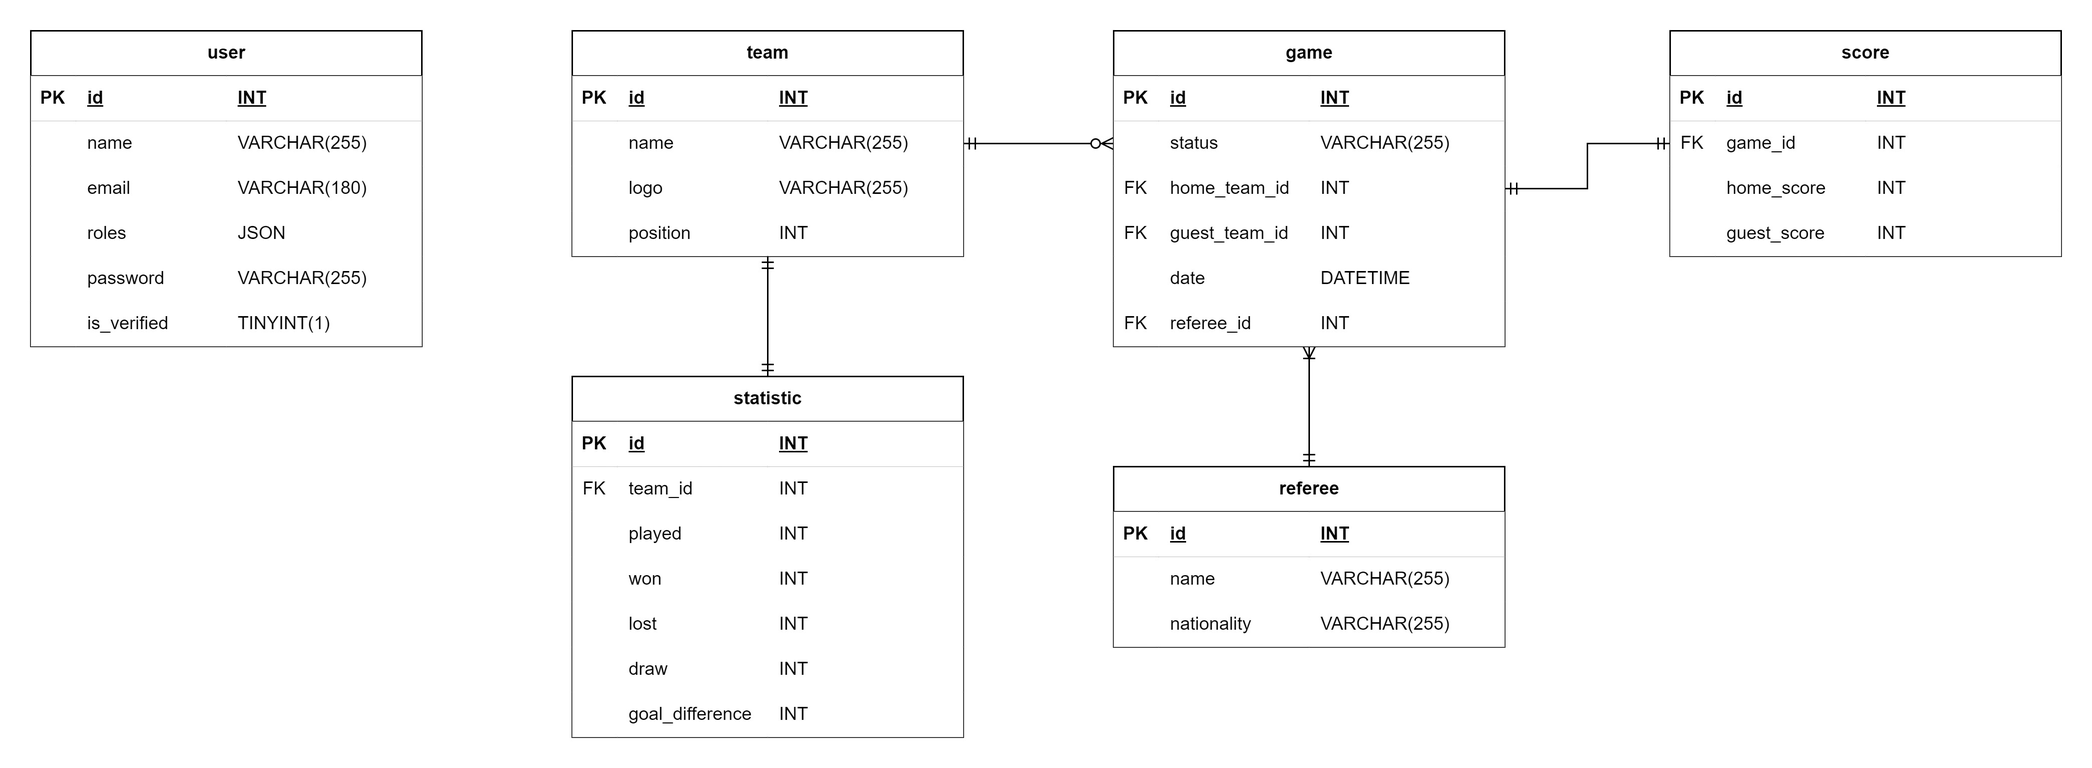
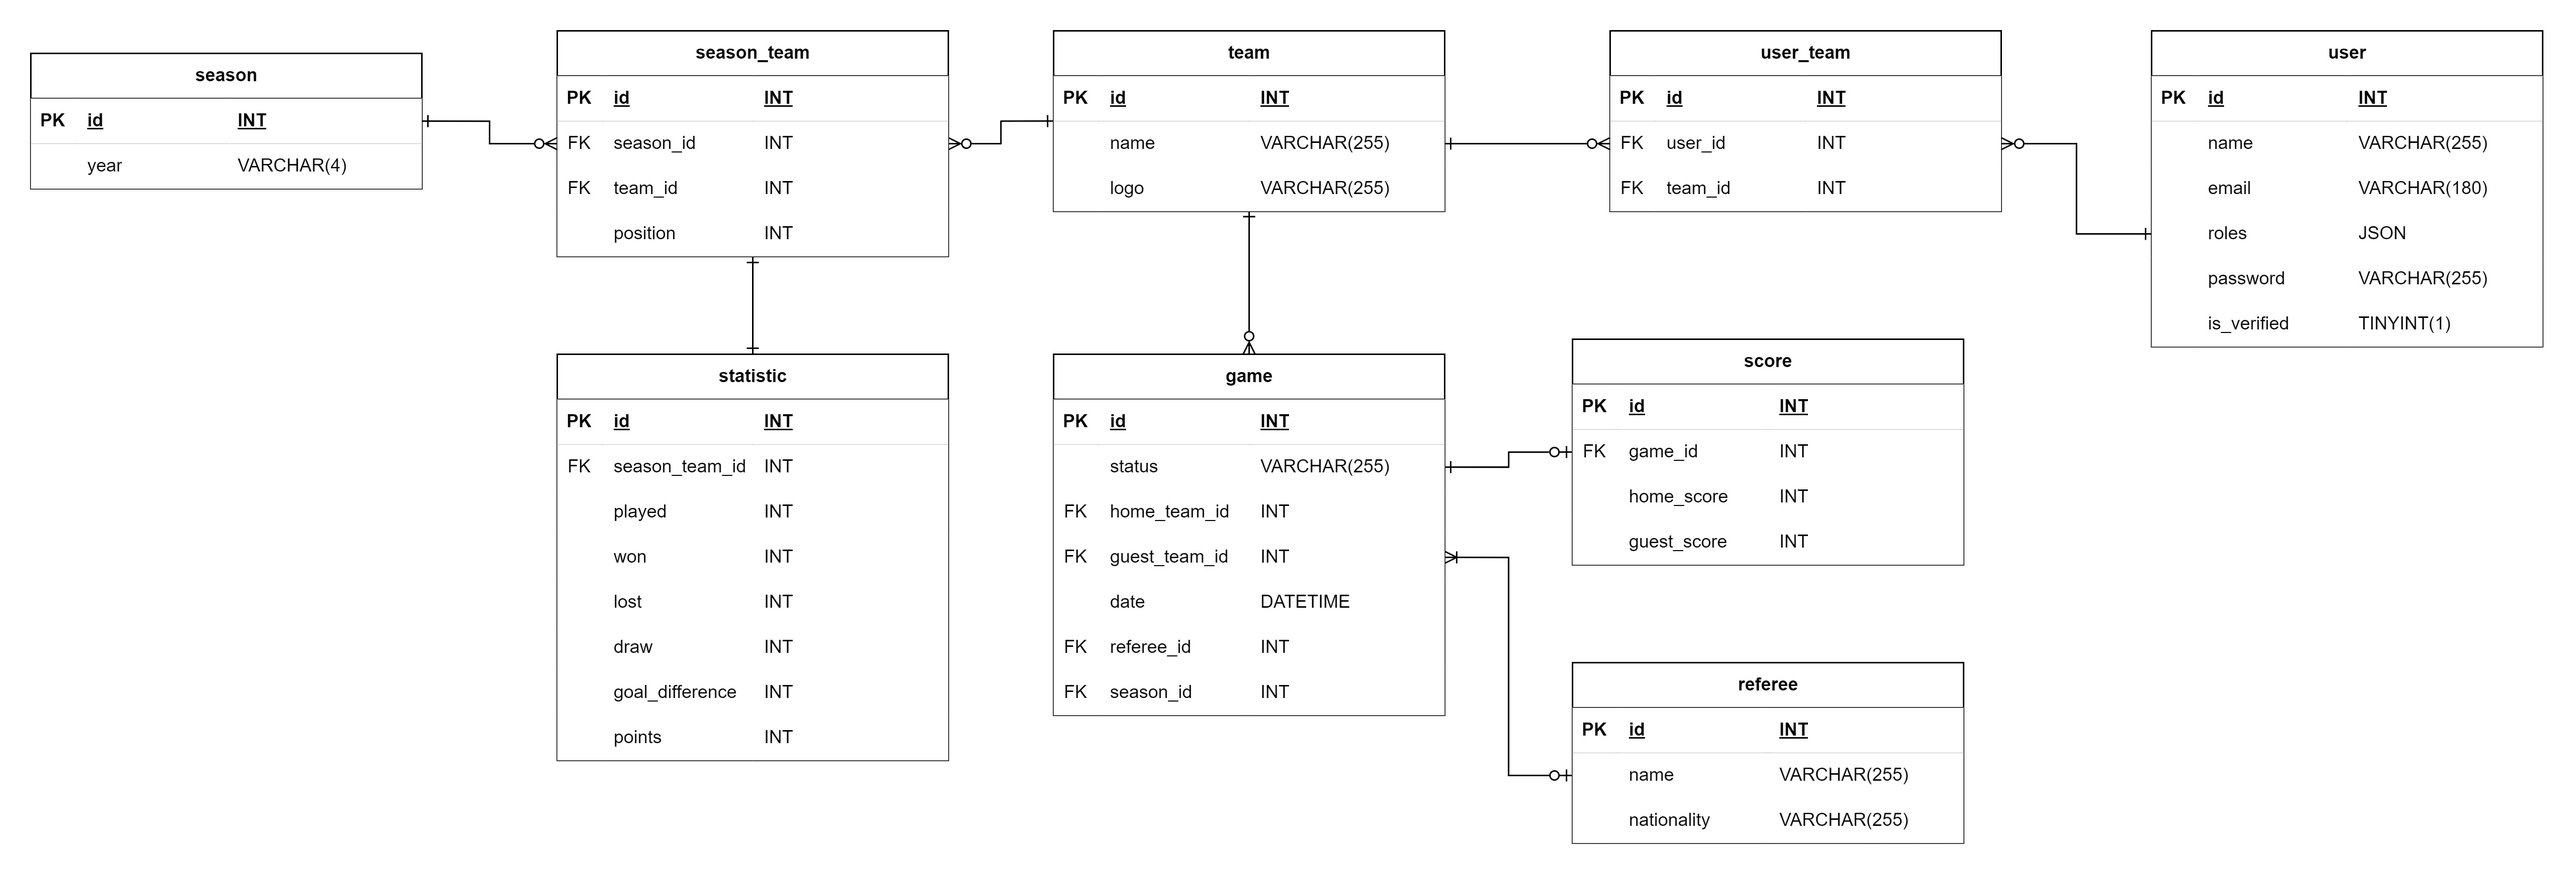
updated ERD

diff --git a/README.md b/README.md
@@ -48,7 +48,8 @@ After that, `ddev start` should work perfectly.
 
 ### __400 Bad Request__ 
 When you access the website and try to register/log in, you might encounter a 400 Bad Request error on redirection to home page. The custom configuration of DDEV fixes it in `.ddev/nginx/redirect.conf`, but it might not catch this from the first server start. In order to fix it, simply run `ddev restart` and this config will be executed and 400 error will disappear.
-
+# Database Design
+![erd.jpg](/assets/img/erd.jpg)
 # References
 ## API
 [Football-data](https://www.football-data.org/) was used as an external API to retrieve information about Eredivisie teams and matches.
